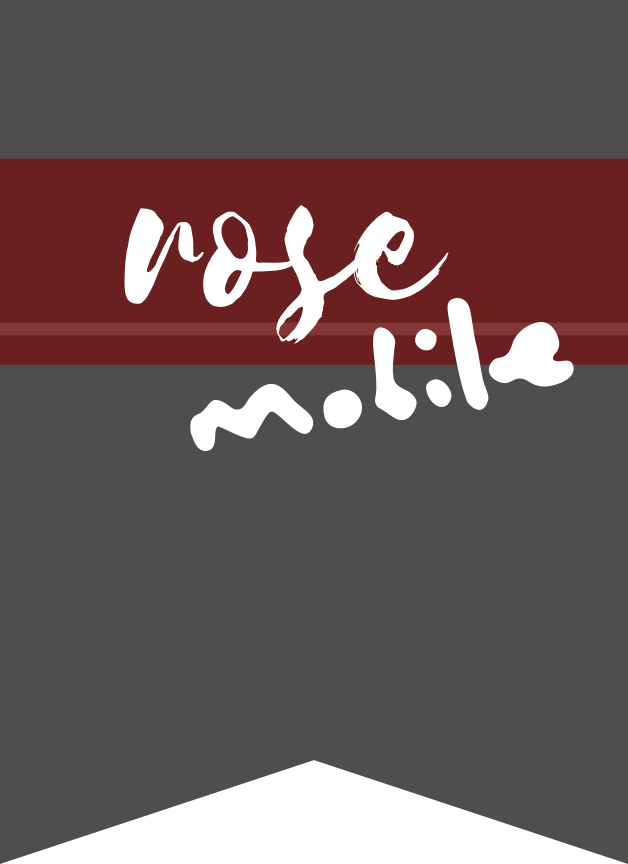
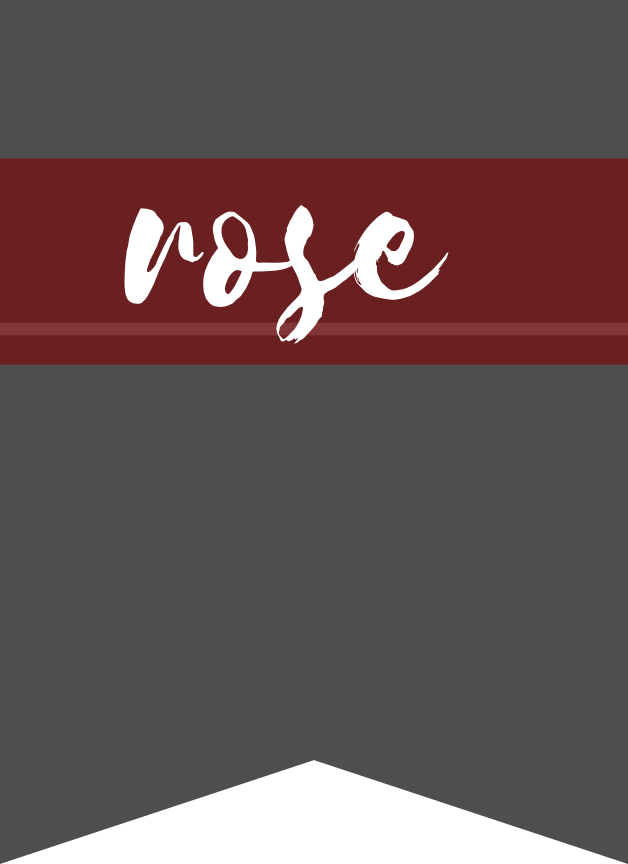
fixing images

Changed region(s): [[0.3025, 0.3438, 0.9076, 0.5312]]

diff --git a/RoseArt/src/app/-main-content/mobile-info/mobile-info.component.scss b/RoseArt/src/app/-main-content/mobile-info/mobile-info.component.scss
@@ -3,6 +3,8 @@
     background: url("../../../assets/images/rose-mobile-toolbar.png");
     background-repeat: no-repeat;
     background-size: cover;
+    min-height: 580px;
+    width: auto;
     
     #rose-art-title {
         width: 30%;

diff --git a/RoseArt/src/app/-main-content/landing-screen/landing-screen.component.scss b/RoseArt/src/app/-main-content/landing-screen/landing-screen.component.scss
@@ -3,6 +3,8 @@
     background: url("../../../assets/images/landing-screen-bg.png");
     background-repeat: no-repeat;
     background-size: cover;
+    min-height: 600px;
+    width: auto;
     
     #rose-art-title {
         width: 30%;

diff --git a/RoseArt/src/app/-main-content/landing-screen/landing-screen.component.html b/RoseArt/src/app/-main-content/landing-screen/landing-screen.component.html
@@ -1,5 +1,2 @@
 <div id="container" fxLayout="row">
-  <span fxFlex="1 2 15%"></span>
-  <img id="rose-art-title" src="../../assets/images/rose-art-toolbar-main2x.png">
-  <span fxFlex="1 2 45%"></span>
 </div>

diff --git a/RoseArt/src/app/-main-content/mobile-info/mobile-info.component.html b/RoseArt/src/app/-main-content/mobile-info/mobile-info.component.html
@@ -1,5 +1,2 @@
 <div id="container" fxLayout="row">
-  <span fxFlex="2 1 55%"></span>
-  <img id="rose-art-title" src="../../assets/images/rose-art-toolbar2x.png">
-  <span fxFlex="2 1 5%"></span>
 </div>
